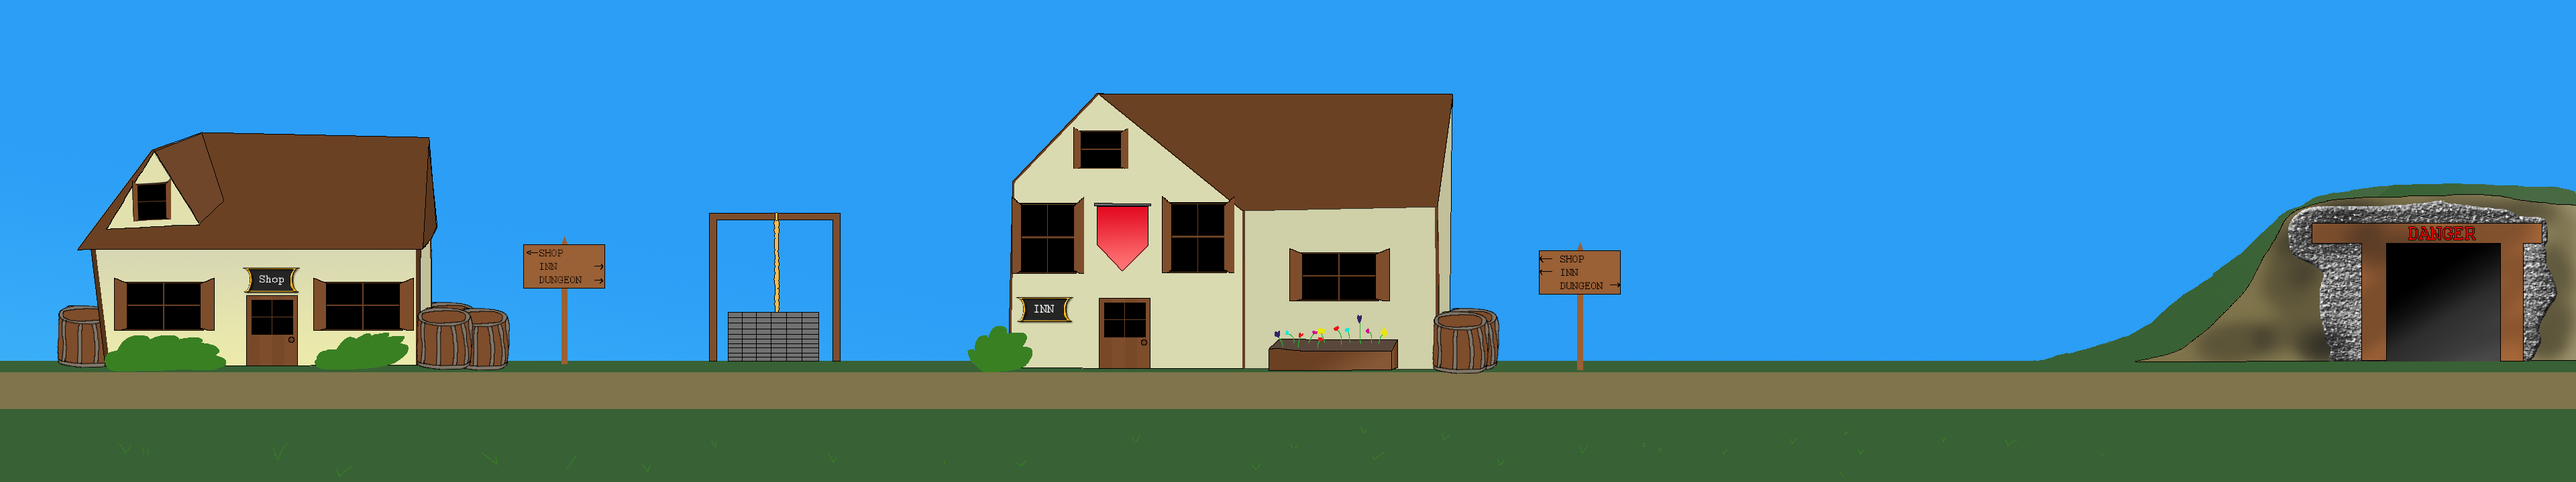
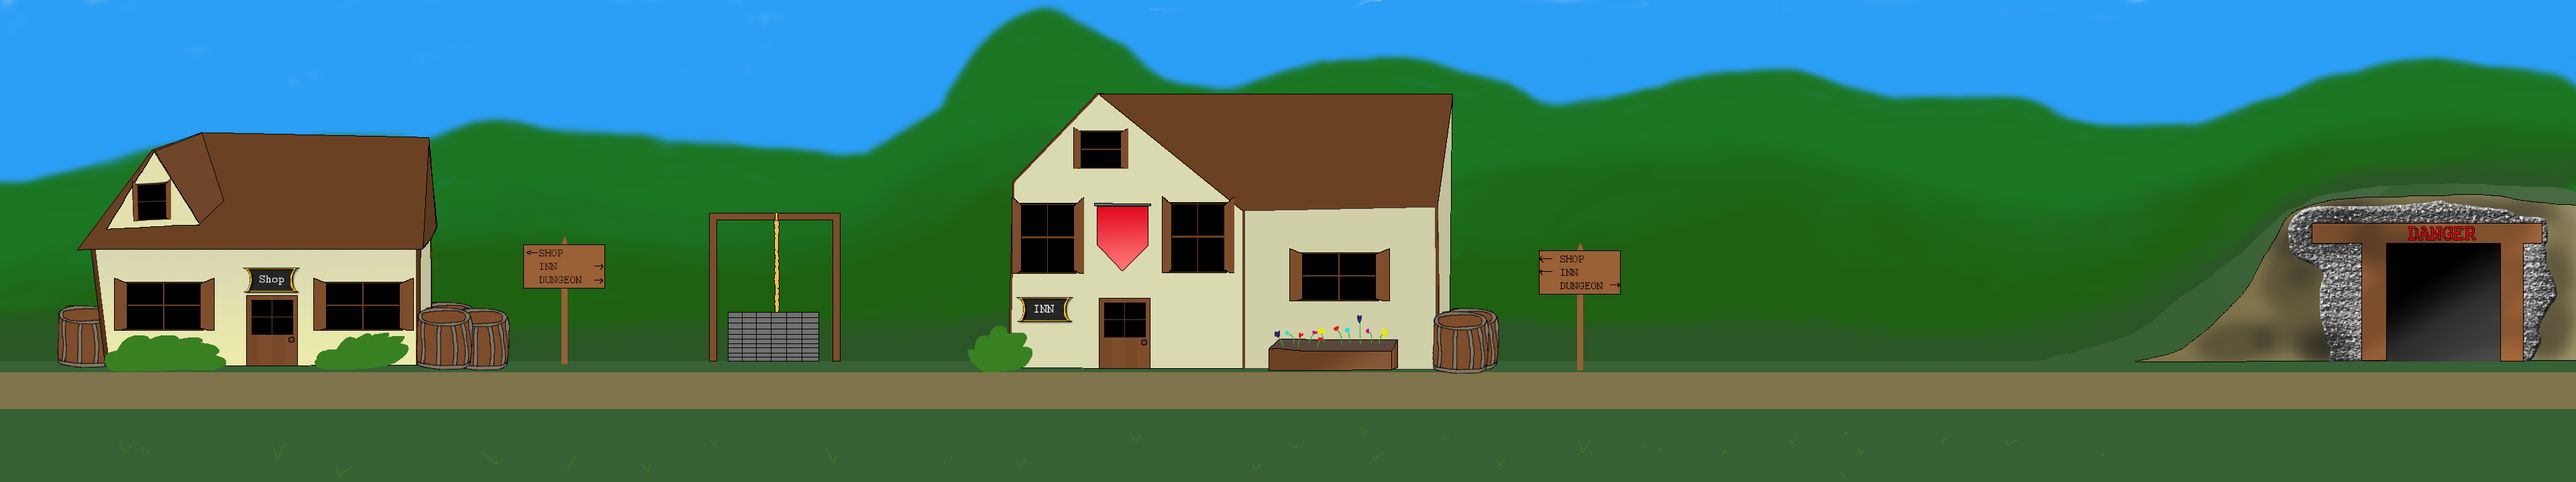
Implemented a simple coin loot system. Also updated the town image.

diff --git a/Balanced/Balanced/assets/scripts/States/LootManager.ts b/Balanced/Balanced/assets/scripts/States/LootManager.ts
@@ -1,0 +1,96 @@
+module States {
+    /**
+     * Use this to assign loot at the death of a mob
+     * @author Anthony
+     */
+    export class LootManager {
+
+        private gsm: GameStateManager;
+        private alive: Phaser.Group;
+
+        constructor(gsm: GameStateManager) {
+            this.gsm = gsm;
+        }
+
+        /**
+         * Drop the item into the game
+         * @param item
+         */
+        public dropItem(item: Loot): void {
+            //dont spawn any
+            if (item.dropAmount <= 0)
+                return;
+
+            //init val
+            if (item.customDropAction !== null && item.customDropAction !== undefined)
+                item.customDropAction = item.customDropAction.bind(item.context);
+            else
+                item.customDropAction = this.defaultDropAction.bind(this);
+
+            //make the items
+            var liveItems = new Array();
+            for (var i = 0; i < item.dropAmount; i++) {
+                var _item = <Phaser.Sprite>(item.createItem.call(item.context, this.gsm));
+                liveItems.push(_item);
+                this.alive.add(_item);
+                item.customDropAction(item.entity, _item);
+                _item['bal_overlap'] = item.overlapWithPlayer.bind(item.context);
+            }
+            
+        }
+
+        /**
+         * Checks the overlap for all the loot on the map
+         * @param floor
+         * @param player
+         */
+        public checkOverlaps(floor: any, player: ENTITIES.Player): void {
+            this.gsm.game.physics.arcade.collide(floor, this.alive);
+            this.gsm.game.physics.arcade.overlap(player, this.alive, this.lootOverlaps, null, this);
+        }
+
+        /**
+         * Helper for overlaps
+         */
+        private lootOverlaps(player: ENTITIES.Player, lootObj: Phaser.Sprite): void {
+            var func = lootObj['bal_overlap'];
+            if (func !== null && func !== undefined)
+                func(player, lootObj);
+        }
+
+        /**
+         * Initialzes the groups
+         */
+        public initialize(): void {
+            this.alive = this.gsm.game.add.group();
+            this.alive.enableBody = true;
+        }
+
+        /**
+         * Destroys all loot still on the grouns
+         */
+        public destroyLoot(): void {
+            this.alive.destroy(true);
+        }
+
+        /**
+         * Default action for how an item should drop
+         */
+        public defaultDropAction(entity: ENTITIES.Entity, item: Phaser.Sprite): void {
+            item.exists = true;
+            item.reset(entity.x, entity.y);
+            item.body.bounce.y = .8;
+
+            //generate a random angle on a half circle w/ radius 64
+            var angle = Math.random() * Math.PI;
+            var x = Math.cos(angle) * ((Math.random()*(160-64))+64);
+            var y = Math.sin(angle) * ((Math.random() * (160 - 64)) + 64);
+
+            item.body.velocity.x = x;
+            item.body.velocity.y = y;
+            item.body.drag.x = 50;
+            item.body.drag.y = 20;
+            item.body.friction.x = 200;
+        }
+    }
+}

diff --git a/Balanced/Balanced/assets/scripts/entities/Ogre.ts b/Balanced/Balanced/assets/scripts/entities/Ogre.ts
@@ -26,21 +26,35 @@
             frame?: string | number) {
             super(gsm, x, y, key, frame);
 
+            this.dropList.push(
+                { context: this, dropAmount: 5, entity: this, 
+                    createItem: g => {
+                        return g.game.add.sprite(this.x, this.y, 'coin');
+                    },
+                    overlapWithPlayer: (player, me) => {
+                        player.addCoin();
+                        me.kill();
+                    }
+                }
+            );
+
             this.player = player;
             this.startPosition = new Phaser.Point(x, y);
             this.abm = new COMBAT.OgreAbilities(this, gsm);
 
             this.attackSize = { width: 96 - 4, height: 96 - 26, wOffset: 2, hOffset: 26 };
-            this.hitSize = { width: 96 - 16, height: 96 - 32, wOffset: 8, hOffset: 32  };
+            this.hitSize = { width: 96 - 16, height: 96 - 32, wOffset: 8, hOffset: 32 };
 
             this.body.setSize(this.hitSize.width, this.hitSize.height,
                 this.hitSize.wOffset, this.hitSize.hOffset);
 
             this.addOnDeathCallBack(function () {
                 var val = this.randomValWithRandomness(2, 1);
+
                 this.gsm.musicBox.playByID(val == 3 ? 'OgreDeath1' :
                     (val == 2 ? 'OgreDeath2' : 'OgreDeath3'),
                     undefined, undefined, UTIL.SFX, false, false);
+
                 this.animations.currentAnim.onComplete.add(() => { this.kill() }, this);
             }, this);
 
@@ -50,7 +64,7 @@
 
                 var val = this.randomValWithRandomness(2, 2);
                 this.gsm.musicBox.playByID(val == 4 ? 'OgreHurt2' :
-                    (val == 3 ? 'OgreHurt3' : (val == 2 ? 'OgreHurt4':'OgreHurt5')),
+                    (val == 3 ? 'OgreHurt3' : (val == 2 ? 'OgreHurt4' : 'OgreHurt5')),
                     undefined, undefined, UTIL.SFX, false, false);
             }, this);
 

diff --git a/Balanced/Balanced/assets/scripts/entities/Player.ts b/Balanced/Balanced/assets/scripts/entities/Player.ts
@@ -6,6 +6,8 @@
      */
     export class Player extends Entity {
 
+        public static SAVE_COINS = 0;
+
         public static allCurrentEvent = [];
 
         // modifiers
@@ -233,6 +235,27 @@
             box.addSound('Bag_Open');
             box.addSound('Bag_Close');
             box.addSound('OpenMenu');
+        }
+
+        public addCoin(): void {
+            Player.SAVE_COINS += 1;
+            new FloatingText(this.gsm.game, <FloatingText.Options>{
+                //easing: Phaser.Easing.Sinusoidal.Out,
+                text: '+1 Coin',
+                animation: 'up',
+                textOptions: <FloatingText.TextOptions>{
+                    fontSize: 18,
+                    fill: 'gold',
+                    stroke: 'black',
+                    strokeThickness: 1,
+                    wordWrap: false,
+                    wordWrapWidth: 200,
+                    font: "Courier"
+                },
+                x: this.x,
+                y: this.y - 35,
+                timeToLive: 300
+            });
         }
 
     }

diff --git a/Balanced/Balanced/assets/scripts/States/level-states/LevelState.ts b/Balanced/Balanced/assets/scripts/States/level-states/LevelState.ts
@@ -15,6 +15,7 @@
         //entities, incl. player; destroyed on end
         protected enemies: Phaser.Group;
         protected player: ENTITIES.Player;
+        protected lm: LootManager;
         //-
 
         //balance stuff
@@ -39,6 +40,7 @@
             super(gsm);
             this.generateDefaultKeys();
             this.defineCustomKeys();
+            this.lm = new LootManager(this.gsm);
         }
 
         public init(): void {
@@ -56,6 +58,7 @@
             //-
 
             this.bm = new BALANCE.BalanceManager(this.gsm);
+            this.lm.initialize();
 
             //graphics
             var group = this.gsm.game.add.group();
@@ -110,6 +113,7 @@
         }
 
         public end(): boolean {
+            this.lm.destroyLoot();
             this.balanceTimer.stop();
             this.balanceTimer.destroy();
             this.gsm.game.camera.reset();

diff --git a/Balanced/Balanced/assets/scripts/entities/Entity.ts b/Balanced/Balanced/assets/scripts/entities/Entity.ts
@@ -7,6 +7,7 @@
     export abstract class Entity extends Phaser.Sprite{
         
         public gsm: States.GameStateManager;
+        public dropList: States.Loot[];
 
         // STATS
         public ATTACK_SPEED = 12;
@@ -27,7 +28,7 @@
         public static flinchL = 'flinchL';
         public static flinchR = 'flinchR';
         public static jumpL   = 'jumpL';
-        public static jumpR = 'jumpR';
+        public static jumpR   = 'jumpR';
         protected jumpL_lastFrame: number;
         protected jumpR_lastFrame: number;
         //END PLACEHOLDERS
@@ -64,6 +65,7 @@
                 | Phaser.BitmapData | PIXI.Texture, frame?: string | number) {
             super(gsm.game, x, y, key, frame);
             this.gsm = gsm;
+            this.dropList = new Array();
 
             this.maxHealth = 100;
             this.health = 100;

diff --git a/Balanced/Balanced/assets/scripts/States/level-states/Level1State.ts b/Balanced/Balanced/assets/scripts/States/level-states/Level1State.ts
@@ -57,6 +57,8 @@
 
             //check if the doors are around
             this.gsm.game.physics.arcade.overlap(this.player, this.doors, this.doDoorLogic, null, this);
+            //do the loot stuff
+            this.lm.checkOverlaps(this.floorlayer, this.player);
 
             //find the doors
             var exitDoor;
@@ -282,6 +284,12 @@
             this.gsm.game.physics.arcade.enable(baddie);
             baddie.body.collideWorldBounds = true;
             this.enemies.add(baddie);
+
+            baddie.addOnDeathCallBack(() => {
+                baddie.dropList.forEach(loot => {
+                    this.lm.dropItem(loot);
+                }, this);
+            }, this);
         }
 
         public end(): boolean {

diff --git a/Balanced/Balanced/assets/scripts/States/Loot.ts b/Balanced/Balanced/assets/scripts/States/Loot.ts
@@ -1,0 +1,20 @@
+module States {
+    /**
+     * Interface for the loot
+     * @author Anthony
+     */
+    export interface Loot {
+        //context to bind the loot to
+        context: any
+        //the thing that should drop it
+        entity: ENTITIES.Entity;
+        //the item it should drop
+        createItem: (gsm: GameStateManager) => Phaser.Sprite;
+        //the amount it should drop
+        dropAmount: number;
+        //what should we do if the player walks over it?
+        overlapWithPlayer: (player: ENTITIES.Player, self: any) => void;
+        //do you want to drop in a special way
+        customDropAction?: (entity: ENTITIES.Entity, item: Phaser.Sprite) => any;
+    }
+}

diff --git a/Balanced/Balanced/assets/scripts/Boot.ts b/Balanced/Balanced/assets/scripts/Boot.ts
@@ -329,6 +329,9 @@ class BalancedGame {
         rem.addResource(new UTIL.Resource('ogre', 'assets/res/level1-dungeon/ogre.png', UTIL.BADDIE_ID), true, function (e) {
             this.game.load.spritesheet(e.key, e.assetUrl, 96, 96);
         }, this);
+        rem.addResource(new UTIL.Resource('coin', 'assets/res/level1-dungeon/coin.png', UTIL.BADDIE_ID), true, function (e) {
+            this.game.load.image(e.key, e.assetUrl);
+        }, this);
 
         // -------------------------------------------START SPALSH SCREEN
         rem.addResource(new UTIL.Resource('balanced_logo', 'assets/res/boot/Balanced Logo.png', UTIL.BADDIE_ID), true, function (e) {

diff --git a/Balanced/Balanced/index.html b/Balanced/Balanced/index.html
@@ -56,6 +56,9 @@
     <!-- Balance Events-->
     <script src="assets/scripts/balance/buffs/EventMatrix.js"></script>  
     <script src="assets/scripts/balance/buffs/TestEvent.js"></script>  
+    <!-- Loot -->
+    <script src="assets/scripts/States/Loot.js"></script>
+    <script src="assets/scripts/States/LootManager.js"></script>
     <!-- States -->
     <script src="assets/scripts/States/State.js"></script>
     <script src="assets/scripts/States/level-states/LevelState.js"></script>

diff --git a/Balanced/Balanced/assets/floatingText.js b/Balanced/Balanced/assets/floatingText.js
@@ -310,8 +310,7 @@ var FloatingText = function (state, options) {
                 y: floatingTextGroup.y - _obj._distance
             }, 400, 100, _obj._easing);
 
-            tweenObj.onComplete.addOnce(function() {
-                reg.floatingGroup = floatingTextGroup;
+            tweenObj.onComplete.addOnce(function () {
                 var _tweenObj = tweenProperty(floatingTextGroup, "alpha", {
                     alpha: 0
                 }, 150, _obj._timeToLive);

diff --git a/Balanced/Balanced/assets/scripts/States/level-states/TownState.ts b/Balanced/Balanced/assets/scripts/States/level-states/TownState.ts
@@ -132,6 +132,8 @@ module States {
             var onUp = e => {
                 if (e.keyCode == Phaser.Keyboard.F)
                     this.enterKeyPressed();
+                if (e.keyCode == Phaser.Keyboard.V)
+                    this.gsm.setState(States.LEVEL1_STATE);
             };
 
             var onPressed = e => { }; 
